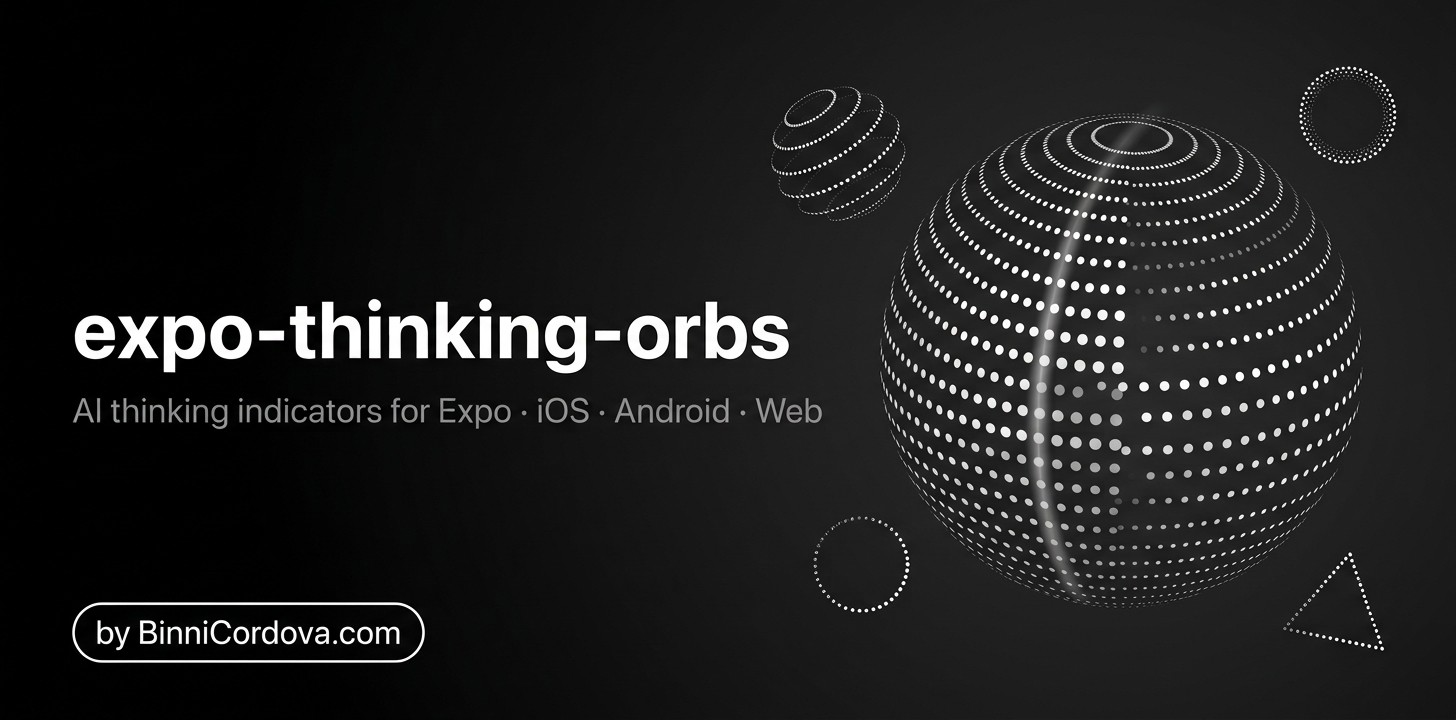
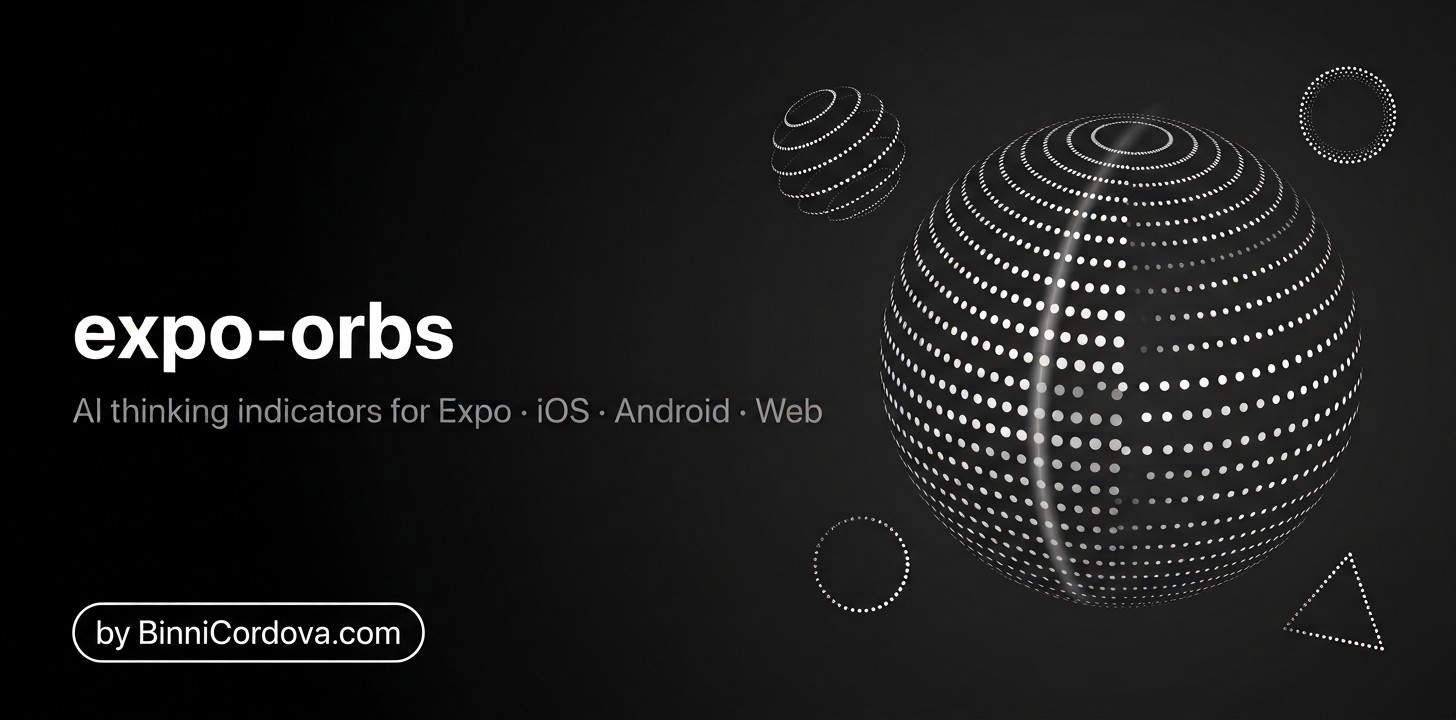
chore: rename package to expo-orbs
The unscoped name expo-thinking-orbs was already taken on npm, so the
package, GitHub repository and docs move to `expo-orbs`.

- package.json name, repository, bugs and homepage → expo-orbs
- README: install/import snippets, raw image URLs, new Gemini hero
  banner titled "expo-orbs"
- example app: imports, header label, slug and bundle ids; re-recorded
  the demo GIF
- CHANGELOG notes the brief @binnicordova/expo-thinking-orbs@0.1.0 release

The public API (ThinkingOrb, useThinkingOrbs, thinkingOrbsStore, …) is
unchanged.

Claude-Session: https://claude.ai/code/session_01Jb2Z7HGEWageUY74kBXKwb

Changed region(s): [[0.1854, 0.3972, 0.5563, 0.5194]]

diff --git a/example/App.tsx b/example/App.tsx
@@ -1,6 +1,6 @@
 import { StatusBar } from 'expo-status-bar';
-import type { OrbState, OrbTheme } from '@binnicordova/expo-thinking-orbs';
-import { ORB_LABELS, ORB_STATES, ThinkingOrb, useThinkingOrbs } from '@binnicordova/expo-thinking-orbs';
+import type { OrbState, OrbTheme } from 'expo-orbs';
+import { ORB_LABELS, ORB_STATES, ThinkingOrb, useThinkingOrbs } from 'expo-orbs';
 import { useState } from 'react';
 import type { ReactNode } from 'react';
 import { Platform, Pressable, ScrollView, StyleSheet, Text, View } from 'react-native';
@@ -54,7 +54,7 @@ function Showcase() {
         {/* header */}
         <View style={styles.row}>
           <ThinkingOrb state="working" size={20} />
-          <Text style={[styles.mono, { color: c.muted }]}>expo-thinking-orbs</Text>
+          <Text style={[styles.mono, { color: c.muted }]}>expo-orbs</Text>
         </View>
         <Text style={[styles.title, { color: c.text }]}>Thinking orbs</Text>
         <Text style={[styles.lede, { color: c.muted }]}>

diff --git a/src/engine/index.ts b/src/engine/index.ts
@@ -1,8 +1,8 @@
-// `@binnicordova/expo-thinking-orbs/engine`: pure geometry — zero React, zero React Native,
+// `expo-orbs/engine`: pure geometry — zero React, zero React Native,
 // zero DOM. Use it to drive your own renderer (a custom Skia canvas, an
 // offscreen canvas, an SVG exporter, a server-side rasteriser…).
 //
-//   import { MODE_FRAMES, resolvePreset } from '@binnicordova/expo-thinking-orbs/engine';
+//   import { MODE_FRAMES, resolvePreset } from 'expo-orbs/engine';
 //
 //   const { mode, speed, opts } = resolvePreset('searching', 64);
 //   const { dots, lines } = MODE_FRAMES[mode](64, elapsedSeconds * speed, opts);

diff --git a/example/metro.config.js b/example/metro.config.js
@@ -4,7 +4,7 @@ const { getDefaultConfig } = require('expo/metro-config');
 const path = require('path');
 
 const root = path.resolve(__dirname, '..');
-const PKG = require(path.join(root, 'package.json')).name; // @binnicordova/expo-thinking-orbs
+const PKG = require(path.join(root, 'package.json')).name; // expo-orbs
 const config = getDefaultConfig(__dirname);
 
 const escape = (p) => p.replace(/[/\\]/g, '[/\\\\]');

diff --git a/src/index.ts b/src/index.ts
@@ -1,4 +1,4 @@
-// expo-thinking-orbs — dotted thought-orb loading indicators for Expo.
+// expo-orbs — dotted thought-orb loading indicators for Expo.
 // iOS & Android render with Skia, web with a plain 2D canvas; all shared
 // state (theme, pause, speed, OS signals, the animation clock) lives in Jotai
 // atoms. Pure TypeScript: works in Expo Go and ships over expo-updates.

diff --git a/README.md b/README.md
@@ -1,8 +1,8 @@
 <p align="center">
-  <a href="https://binnicordova.com"><img src="https://raw.githubusercontent.com/binnicordova/expo-thinking-orbs/main/docs/images/hero.jpg" alt="expo-thinking-orbs — AI thinking indicators for Expo on iOS, Android and web, by BinniCordova.com" width="100%"></a>
+  <a href="https://binnicordova.com"><img src="https://raw.githubusercontent.com/binnicordova/expo-orbs/main/docs/images/hero.jpg" alt="expo-orbs — AI thinking indicators for Expo on iOS, Android and web, by BinniCordova.com" width="100%"></a>
 </p>
 
-<h1 align="center">expo-thinking-orbs</h1>
+<h1 align="center">expo-orbs</h1>
 
 <p align="center">
   <b>Dotted thought-orb loading indicators for AI &amp; agent UIs — iOS, Android and web.</b><br/>
@@ -10,7 +10,7 @@
 </p>
 
 <p align="center">
-  <a href="https://www.npmjs.com/package/@binnicordova/expo-thinking-orbs"><img alt="npm" src="https://img.shields.io/npm/v/@binnicordova/expo-thinking-orbs?style=flat-square&color=111111"></a>
+  <a href="https://www.npmjs.com/package/expo-orbs"><img alt="npm" src="https://img.shields.io/npm/v/expo-orbs?style=flat-square&color=111111"></a>
   <img alt="Expo SDK 58+" src="https://img.shields.io/badge/Expo%20SDK-58%2B-000020?style=flat-square&logo=expo">
   <img alt="Platforms" src="https://img.shields.io/badge/platforms-iOS%20%7C%20Android%20%7C%20Web-0ea5e9?style=flat-square">
   <img alt="Expo Go" src="https://img.shields.io/badge/Expo%20Go-ready-16a34a?style=flat-square">
@@ -24,7 +24,7 @@
 </p>
 
 <p align="center">
-  <picture><source media="(prefers-color-scheme: dark)" srcset="https://raw.githubusercontent.com/binnicordova/expo-thinking-orbs/main/docs/images/orbs-grid-dark.gif"><source media="(prefers-color-scheme: light)" srcset="https://raw.githubusercontent.com/binnicordova/expo-thinking-orbs/main/docs/images/orbs-grid-light.gif"><img src="https://raw.githubusercontent.com/binnicordova/expo-thinking-orbs/main/docs/images/orbs-grid-dark.gif" alt="All nine thinking-orb states animating, each at the 64 and 20 sizes" width="660"></picture>
+  <picture><source media="(prefers-color-scheme: dark)" srcset="https://raw.githubusercontent.com/binnicordova/expo-orbs/main/docs/images/orbs-grid-dark.gif"><source media="(prefers-color-scheme: light)" srcset="https://raw.githubusercontent.com/binnicordova/expo-orbs/main/docs/images/orbs-grid-light.gif"><img src="https://raw.githubusercontent.com/binnicordova/expo-orbs/main/docs/images/orbs-grid-dark.gif" alt="All nine thinking-orb states animating, each at the 64 and 20 sizes" width="660"></picture>
 </p>
 
 ---
@@ -41,8 +41,8 @@ It is a TypeScript-only port of [thinking-orbs](https://github.com/Jakubantalik/
 
 <table>
   <tr>
-    <td align="center" valign="top" width="45%"><img src="https://raw.githubusercontent.com/binnicordova/expo-thinking-orbs/main/docs/images/app-demo-dark.gif" alt="The example app: tapping through states, switching theme, scrolling the grid" width="300"><br/><sub>The example app — tap a state, flip the theme, every orb follows the same atoms</sub></td>
-    <td align="center" valign="top"><picture><source media="(prefers-color-scheme: dark)" srcset="https://raw.githubusercontent.com/binnicordova/expo-thinking-orbs/main/docs/images/chat-dark.gif"><source media="(prefers-color-scheme: light)" srcset="https://raw.githubusercontent.com/binnicordova/expo-thinking-orbs/main/docs/images/chat-light.gif"><img src="https://raw.githubusercontent.com/binnicordova/expo-thinking-orbs/main/docs/images/chat-dark.gif" alt="An AI agent's steps in a chat: searching, solving, then composing a reply" width="420"></picture><br/><sub>Inline at size 20: one orb per agent step</sub></td>
+    <td align="center" valign="top" width="45%"><img src="https://raw.githubusercontent.com/binnicordova/expo-orbs/main/docs/images/app-demo-dark.gif" alt="The example app: tapping through states, switching theme, scrolling the grid" width="300"><br/><sub>The example app — tap a state, flip the theme, every orb follows the same atoms</sub></td>
+    <td align="center" valign="top"><picture><source media="(prefers-color-scheme: dark)" srcset="https://raw.githubusercontent.com/binnicordova/expo-orbs/main/docs/images/chat-dark.gif"><source media="(prefers-color-scheme: light)" srcset="https://raw.githubusercontent.com/binnicordova/expo-orbs/main/docs/images/chat-light.gif"><img src="https://raw.githubusercontent.com/binnicordova/expo-orbs/main/docs/images/chat-dark.gif" alt="An AI agent's steps in a chat: searching, solving, then composing a reply" width="420"></picture><br/><sub>Inline at size 20: one orb per agent step</sub></td>
   </tr>
 </table>
 
@@ -52,10 +52,8 @@ It is a TypeScript-only port of [thinking-orbs](https://github.com/Jakubantalik/
 
 **1 — Install** (`expo install` picks the Skia version that matches your SDK)
 
-> The package is published under the `@binnicordova` scope.
-
 ```sh
-npx expo install @binnicordova/expo-thinking-orbs jotai @shopify/react-native-skia
+npx expo install expo-orbs jotai @shopify/react-native-skia
 ```
 
 > Web-only project? Add `react-dom react-native-web`. Skia is never loaded on web.
@@ -63,7 +61,7 @@ npx expo install @binnicordova/expo-thinking-orbs jotai @shopify/react-native-sk
 **2 — Import**
 
 ```tsx
-import { ThinkingOrb } from '@binnicordova/expo-thinking-orbs';
+import { ThinkingOrb } from 'expo-orbs';
 ```
 
 **3 — Render**
@@ -80,15 +78,15 @@ Nine verbs an agent can be doing, each a distinct animation:
 
 <table>
   <tr><th></th><th><code>state</code></th><th>Animation</th><th>Default label</th></tr>
-  <tr><td><picture><source media="(prefers-color-scheme: dark)" srcset="https://raw.githubusercontent.com/binnicordova/expo-thinking-orbs/main/docs/images/state-working-dark.gif"><source media="(prefers-color-scheme: light)" srcset="https://raw.githubusercontent.com/binnicordova/expo-thinking-orbs/main/docs/images/state-working-light.gif"><img src="https://raw.githubusercontent.com/binnicordova/expo-thinking-orbs/main/docs/images/state-working-dark.gif" alt="working orb" width="72"></picture></td><td><code>working</code></td><td>particles on tilted orbits</td><td>Working…</td></tr>
-  <tr><td><picture><source media="(prefers-color-scheme: dark)" srcset="https://raw.githubusercontent.com/binnicordova/expo-thinking-orbs/main/docs/images/state-searching-dark.gif"><source media="(prefers-color-scheme: light)" srcset="https://raw.githubusercontent.com/binnicordova/expo-thinking-orbs/main/docs/images/state-searching-light.gif"><img src="https://raw.githubusercontent.com/binnicordova/expo-thinking-orbs/main/docs/images/state-searching-dark.gif" alt="searching orb" width="72"></picture></td><td><code>searching</code></td><td>a scan meridian sweeps a dotted globe</td><td>Searching…</td></tr>
-  <tr><td><picture><source media="(prefers-color-scheme: dark)" srcset="https://raw.githubusercontent.com/binnicordova/expo-thinking-orbs/main/docs/images/state-solving-dark.gif"><source media="(prefers-color-scheme: light)" srcset="https://raw.githubusercontent.com/binnicordova/expo-thinking-orbs/main/docs/images/state-solving-light.gif"><img src="https://raw.githubusercontent.com/binnicordova/expo-thinking-orbs/main/docs/images/state-solving-dark.gif" alt="solving orb" width="72"></picture></td><td><code>solving</code></td><td>bands scramble in quarter turns, then click back solved</td><td>Solving…</td></tr>
-  <tr><td><picture><source media="(prefers-color-scheme: dark)" srcset="https://raw.githubusercontent.com/binnicordova/expo-thinking-orbs/main/docs/images/state-listening-dark.gif"><source media="(prefers-color-scheme: light)" srcset="https://raw.githubusercontent.com/binnicordova/expo-thinking-orbs/main/docs/images/state-listening-light.gif"><img src="https://raw.githubusercontent.com/binnicordova/expo-thinking-orbs/main/docs/images/state-listening-dark.gif" alt="listening orb" width="72"></picture></td><td><code>listening</code></td><td>a waveform rolls through latitude rings</td><td>Listening…</td></tr>
-  <tr><td><picture><source media="(prefers-color-scheme: dark)" srcset="https://raw.githubusercontent.com/binnicordova/expo-thinking-orbs/main/docs/images/state-connecting-dark.gif"><source media="(prefers-color-scheme: light)" srcset="https://raw.githubusercontent.com/binnicordova/expo-thinking-orbs/main/docs/images/state-connecting-light.gif"><img src="https://raw.githubusercontent.com/binnicordova/expo-thinking-orbs/main/docs/images/state-connecting-dark.gif" alt="connecting orb" width="72"></picture></td><td><code>connecting</code></td><td>a constellation wires itself, packets running the edges</td><td>Connecting…</td></tr>
-  <tr><td><picture><source media="(prefers-color-scheme: dark)" srcset="https://raw.githubusercontent.com/binnicordova/expo-thinking-orbs/main/docs/images/state-weaving-dark.gif"><source media="(prefers-color-scheme: light)" srcset="https://raw.githubusercontent.com/binnicordova/expo-thinking-orbs/main/docs/images/state-weaving-light.gif"><img src="https://raw.githubusercontent.com/binnicordova/expo-thinking-orbs/main/docs/images/state-weaving-dark.gif" alt="weaving orb" width="72"></picture></td><td><code>weaving</code></td><td>three strands plait around the sphere</td><td>Weaving…</td></tr>
-  <tr><td><picture><source media="(prefers-color-scheme: dark)" srcset="https://raw.githubusercontent.com/binnicordova/expo-thinking-orbs/main/docs/images/state-composing-dark.gif"><source media="(prefers-color-scheme: light)" srcset="https://raw.githubusercontent.com/binnicordova/expo-thinking-orbs/main/docs/images/state-composing-light.gif"><img src="https://raw.githubusercontent.com/binnicordova/expo-thinking-orbs/main/docs/images/state-composing-dark.gif" alt="composing orb" width="72"></picture></td><td><code>composing</code></td><td>an undulating multi-band sash</td><td>Composing…</td></tr>
-  <tr><td><picture><source media="(prefers-color-scheme: dark)" srcset="https://raw.githubusercontent.com/binnicordova/expo-thinking-orbs/main/docs/images/state-breathing-dark.gif"><source media="(prefers-color-scheme: light)" srcset="https://raw.githubusercontent.com/binnicordova/expo-thinking-orbs/main/docs/images/state-breathing-light.gif"><img src="https://raw.githubusercontent.com/binnicordova/expo-thinking-orbs/main/docs/images/state-breathing-dark.gif" alt="breathing orb" width="72"></picture></td><td><code>breathing</code></td><td>a face-on ring slowly morphing</td><td>Thinking…</td></tr>
-  <tr><td><picture><source media="(prefers-color-scheme: dark)" srcset="https://raw.githubusercontent.com/binnicordova/expo-thinking-orbs/main/docs/images/state-shaping-dark.gif"><source media="(prefers-color-scheme: light)" srcset="https://raw.githubusercontent.com/binnicordova/expo-thinking-orbs/main/docs/images/state-shaping-light.gif"><img src="https://raw.githubusercontent.com/binnicordova/expo-thinking-orbs/main/docs/images/state-shaping-dark.gif" alt="shaping orb" width="72"></picture></td><td><code>shaping</code></td><td>a dotted outline morphs circle → triangle → square</td><td>Shaping…</td></tr>
+  <tr><td><picture><source media="(prefers-color-scheme: dark)" srcset="https://raw.githubusercontent.com/binnicordova/expo-orbs/main/docs/images/state-working-dark.gif"><source media="(prefers-color-scheme: light)" srcset="https://raw.githubusercontent.com/binnicordova/expo-orbs/main/docs/images/state-working-light.gif"><img src="https://raw.githubusercontent.com/binnicordova/expo-orbs/main/docs/images/state-working-dark.gif" alt="working orb" width="72"></picture></td><td><code>working</code></td><td>particles on tilted orbits</td><td>Working…</td></tr>
+  <tr><td><picture><source media="(prefers-color-scheme: dark)" srcset="https://raw.githubusercontent.com/binnicordova/expo-orbs/main/docs/images/state-searching-dark.gif"><source media="(prefers-color-scheme: light)" srcset="https://raw.githubusercontent.com/binnicordova/expo-orbs/main/docs/images/state-searching-light.gif"><img src="https://raw.githubusercontent.com/binnicordova/expo-orbs/main/docs/images/state-searching-dark.gif" alt="searching orb" width="72"></picture></td><td><code>searching</code></td><td>a scan meridian sweeps a dotted globe</td><td>Searching…</td></tr>
+  <tr><td><picture><source media="(prefers-color-scheme: dark)" srcset="https://raw.githubusercontent.com/binnicordova/expo-orbs/main/docs/images/state-solving-dark.gif"><source media="(prefers-color-scheme: light)" srcset="https://raw.githubusercontent.com/binnicordova/expo-orbs/main/docs/images/state-solving-light.gif"><img src="https://raw.githubusercontent.com/binnicordova/expo-orbs/main/docs/images/state-solving-dark.gif" alt="solving orb" width="72"></picture></td><td><code>solving</code></td><td>bands scramble in quarter turns, then click back solved</td><td>Solving…</td></tr>
+  <tr><td><picture><source media="(prefers-color-scheme: dark)" srcset="https://raw.githubusercontent.com/binnicordova/expo-orbs/main/docs/images/state-listening-dark.gif"><source media="(prefers-color-scheme: light)" srcset="https://raw.githubusercontent.com/binnicordova/expo-orbs/main/docs/images/state-listening-light.gif"><img src="https://raw.githubusercontent.com/binnicordova/expo-orbs/main/docs/images/state-listening-dark.gif" alt="listening orb" width="72"></picture></td><td><code>listening</code></td><td>a waveform rolls through latitude rings</td><td>Listening…</td></tr>
+  <tr><td><picture><source media="(prefers-color-scheme: dark)" srcset="https://raw.githubusercontent.com/binnicordova/expo-orbs/main/docs/images/state-connecting-dark.gif"><source media="(prefers-color-scheme: light)" srcset="https://raw.githubusercontent.com/binnicordova/expo-orbs/main/docs/images/state-connecting-light.gif"><img src="https://raw.githubusercontent.com/binnicordova/expo-orbs/main/docs/images/state-connecting-dark.gif" alt="connecting orb" width="72"></picture></td><td><code>connecting</code></td><td>a constellation wires itself, packets running the edges</td><td>Connecting…</td></tr>
+  <tr><td><picture><source media="(prefers-color-scheme: dark)" srcset="https://raw.githubusercontent.com/binnicordova/expo-orbs/main/docs/images/state-weaving-dark.gif"><source media="(prefers-color-scheme: light)" srcset="https://raw.githubusercontent.com/binnicordova/expo-orbs/main/docs/images/state-weaving-light.gif"><img src="https://raw.githubusercontent.com/binnicordova/expo-orbs/main/docs/images/state-weaving-dark.gif" alt="weaving orb" width="72"></picture></td><td><code>weaving</code></td><td>three strands plait around the sphere</td><td>Weaving…</td></tr>
+  <tr><td><picture><source media="(prefers-color-scheme: dark)" srcset="https://raw.githubusercontent.com/binnicordova/expo-orbs/main/docs/images/state-composing-dark.gif"><source media="(prefers-color-scheme: light)" srcset="https://raw.githubusercontent.com/binnicordova/expo-orbs/main/docs/images/state-composing-light.gif"><img src="https://raw.githubusercontent.com/binnicordova/expo-orbs/main/docs/images/state-composing-dark.gif" alt="composing orb" width="72"></picture></td><td><code>composing</code></td><td>an undulating multi-band sash</td><td>Composing…</td></tr>
+  <tr><td><picture><source media="(prefers-color-scheme: dark)" srcset="https://raw.githubusercontent.com/binnicordova/expo-orbs/main/docs/images/state-breathing-dark.gif"><source media="(prefers-color-scheme: light)" srcset="https://raw.githubusercontent.com/binnicordova/expo-orbs/main/docs/images/state-breathing-light.gif"><img src="https://raw.githubusercontent.com/binnicordova/expo-orbs/main/docs/images/state-breathing-dark.gif" alt="breathing orb" width="72"></picture></td><td><code>breathing</code></td><td>a face-on ring slowly morphing</td><td>Thinking…</td></tr>
+  <tr><td><picture><source media="(prefers-color-scheme: dark)" srcset="https://raw.githubusercontent.com/binnicordova/expo-orbs/main/docs/images/state-shaping-dark.gif"><source media="(prefers-color-scheme: light)" srcset="https://raw.githubusercontent.com/binnicordova/expo-orbs/main/docs/images/state-shaping-light.gif"><img src="https://raw.githubusercontent.com/binnicordova/expo-orbs/main/docs/images/state-shaping-dark.gif" alt="shaping orb" width="72"></picture></td><td><code>shaping</code></td><td>a dotted outline morphs circle → triangle → square</td><td>Shaping…</td></tr>
 </table>
 
 ## Sizes
@@ -143,7 +141,7 @@ Every piece of shared state is a small atom. Orbs subscribe only to what they ne
 ### Steer every orb with one hook
 
 ```tsx
-import { useThinkingOrbs } from '@binnicordova/expo-thinking-orbs';
+import { useThinkingOrbs } from 'expo-orbs';
 
 function OrbSettings() {
   const { theme, setTheme, paused, togglePaused, speed, setSpeed, isDark, reduceMotion } =
@@ -165,7 +163,7 @@ The orbs live in their own store, `thinkingOrbsStore`, so they never collide wit
 
 ```tsx
 import { useAtomValue, useSetAtom } from 'jotai';
-import { orbsPausedAtom, reduceMotionAtom, useOrbStore } from '@binnicordova/expo-thinking-orbs';
+import { orbsPausedAtom, reduceMotionAtom, useOrbStore } from 'expo-orbs';
 
 const store = useOrbStore();
 const pauseAll = useSetAtom(orbsPausedAtom, { store });
@@ -177,7 +175,7 @@ const reduced = useAtomValue(reduceMotionAtom, { store });
 Services, websocket handlers and tests can set atoms directly:
 
 ```ts
-import { orbThemeAtom, orbsPausedAtom, thinkingOrbsStore } from '@binnicordova/expo-thinking-orbs';
+import { orbThemeAtom, orbsPausedAtom, thinkingOrbsStore } from 'expo-orbs';
 
 socket.on('agent:idle', () => thinkingOrbsStore.set(orbsPausedAtom, true));
 socket.on('agent:busy', () => thinkingOrbsStore.set(orbsPausedAtom, false));
@@ -190,7 +188,7 @@ Want the orbs inside your app's Jotai store (to see them in Jotai DevTools, or t
 
 ```tsx
 import { createStore } from 'jotai';
-import { ThinkingOrbsProvider } from '@binnicordova/expo-thinking-orbs';
+import { ThinkingOrbsProvider } from 'expo-orbs';
 
 const appStore = createStore();
 
@@ -202,7 +200,7 @@ const appStore = createStore();
 ## Real use cases
 
 <p align="center">
-  <img src="https://raw.githubusercontent.com/binnicordova/expo-thinking-orbs/main/docs/images/use-cases.jpg" alt="Use cases: an AI chat that is searching, a voice assistant that is listening, a coding agent that is solving" width="100%">
+  <img src="https://raw.githubusercontent.com/binnicordova/expo-orbs/main/docs/images/use-cases.jpg" alt="Use cases: an AI chat that is searching, a voice assistant that is listening, a coding agent that is solving" width="100%">
 </p>
 
 ### 🤖 Map agent tool calls to states
@@ -314,12 +312,12 @@ So:
 | `ORB_STATES`, `ORB_SIZES`, `ORB_LABELS` | constants | For pickers and menus. |
 | `MODE_FRAMES`, `resolvePreset`, `STATE_TO_MODE` | engine | For custom renderers. |
 
-### `@binnicordova/expo-thinking-orbs/engine`
+### `expo-orbs/engine`
 
 The geometry on its own, with zero React, React Native or DOM, for custom renderers (an SVG exporter, a server-side rasteriser, your own Skia scene):
 
 ```ts
-import { MODE_FRAMES, inkGrey, resolvePreset } from '@binnicordova/expo-thinking-orbs/engine';
+import { MODE_FRAMES, inkGrey, resolvePreset } from 'expo-orbs/engine';
 
 const { mode, speed, opts } = resolvePreset('searching', 64);
 const { dots, lines } = MODE_FRAMES[mode](64, elapsedSeconds * speed, opts);
@@ -383,7 +381,7 @@ npm publish             # publishConfig.access is already "public"
 ## About the creator
 
 <p align="center">
-  <a href="https://binnicordova.com"><img src="https://raw.githubusercontent.com/binnicordova/expo-thinking-orbs/main/docs/images/creator.jpg" alt="BinniCordova.com — Expo & React Native open-source modules" width="100%"></a>
+  <a href="https://binnicordova.com"><img src="https://raw.githubusercontent.com/binnicordova/expo-orbs/main/docs/images/creator.jpg" alt="BinniCordova.com — Expo & React Native open-source modules" width="100%"></a>
 </p>
 
 **Binni Cordova** builds Expo and React Native modules that run in Expo Go and ship over the air: pure TypeScript, no native code, iOS, Android and web from one codebase.
@@ -392,7 +390,7 @@ npm publish             # publishConfig.access is already "public"
 - 🐙 GitHub: [@binnicordova](https://github.com/binnicordova)
 - 📦 More modules: [expo-useanimations](https://github.com/binnicordova/expo-useanimations) · [expo-logs](https://github.com/binnicordova/expo-logs) · [expo-atoms](https://github.com/binnicordova/expo-atoms)
 
-Using expo-thinking-orbs in an app? Open an issue or say hi on [BinniCordova.com](https://binnicordova.com) — I'd love to see it.
+Using expo-orbs in an app? Open an issue or say hi on [BinniCordova.com](https://binnicordova.com) — I'd love to see it.
 
 ## Credits & license
 

diff --git a/docs/images/GEMINI_PROMPTS.md b/docs/images/GEMINI_PROMPTS.md
@@ -4,11 +4,13 @@
 
 `hero.jpg`, `use-cases.jpg` and `creator.jpg` were generated with Gemini (gemini.google.com, signed in as Binni Cordova) on 2026-10-03, then downloaded at full size. To make new versions, reuse these prompts and keep the same file names.
 
-**hero.jpg** (≈2:1). Two prompts in the same chat: the first made the layout, the second highlighted the credit.
+**hero.jpg** (≈2:1). Three prompts in the same chat: the first made the layout, the second highlighted the credit, the third applied the rename from the working name `expo-thinking-orbs` to `expo-orbs`.
 
 > Create an image: A wide 2:1 GitHub README hero banner for an open-source Expo / React Native library called "expo-thinking-orbs". Pure black to deep charcoal background, strictly monochrome (white and greys only, no color). On the right, a large 3D sphere made entirely of tiny white dots arranged on latitude rings, like a halftone dotted globe, depth-shaded so near dots are bigger and brighter and far dots are small and faint, with a soft vertical scan meridian sweeping across it. Around it, three smaller dotted orbs: one with dots on tilted orbits, one dotted ring, one dotted triangle outline. On the left, large clean bold white sans-serif text "expo-thinking-orbs" and below it smaller grey text "AI thinking indicators for Expo · iOS · Android · Web". In the bottom-left corner, a rounded pill badge with the white text "BinniCordova.com". Minimal, elegant, lots of negative space, crisp vector look, no other logos, no other text.
 
 > Great. Make one more version of this exact banner where the creator credit is highlighted: replace the small corner badge with a clearly readable line under the subtitle that says "by BinniCordova.com" in medium-size white text with a thin white outline pill around it, and keep everything else (monochrome dotted orbs, layout, black background) the same.
+
+> The library has been renamed. Make the hero banner again (the second version, with the "by BinniCordova.com" pill under the subtitle) but change the big title text to exactly "expo-orbs" (all lowercase, with the hyphen). Keep the subtitle "AI thinking indicators for Expo · iOS · Android · Web", the "by BinniCordova.com" pill, the large dotted globe with the scan meridian, the three small dotted orbs, the black background and the strictly monochrome style exactly the same. Wide 2:1.
 
 **use-cases.jpg** (≈16:9)
 

diff --git a/CHANGELOG.md b/CHANGELOG.md
@@ -2,11 +2,11 @@
 
 ## 0.1.0 — 2026-10-03
 
-Initial release, published as `@binnicordova/expo-thinking-orbs`.
+Initial release as `expo-orbs` (first published briefly as `@binnicordova/expo-thinking-orbs@0.1.0`, which this package supersedes).
 
 - `<ThinkingOrb>` for iOS, Android and web (Expo SDK 58+): nine hand-tuned states (`working`, `searching`, `solving`, `listening`, `connecting`, `weaving`, `composing`, `breathing`, `shaping`) at two tuned sizes (64 and 20), plus any other size via the nearest preset.
 - Works in Expo Go and ships over expo-updates: zero native code. Native renders with `@shopify/react-native-skia`, web with a plain 2D canvas (no CanvasKit download).
 - Atomic state with Jotai: `orbThemeAtom`, `orbsPausedAtom`, `orbSpeedAtom`, live OS atoms (`systemColorSchemeAtom`, `reduceMotionAtom`, `appActiveAtom`) and one shared animation clock (`orbClockAtom`) that runs only while an orb is animating.
 - `useThinkingOrbs()` control hook, a dedicated `thinkingOrbsStore` you can drive from outside React, and `<ThinkingOrbsProvider store>` to use your own Jotai store.
 - Geometry is identical to thinking-orbs 0.3.1: verified against its 72 golden-vector frames.
-- `@binnicordova/expo-thinking-orbs/engine` subpath: the pure geometry engine for custom renderers.
+- `expo-orbs/engine` subpath: the pure geometry engine for custom renderers.
